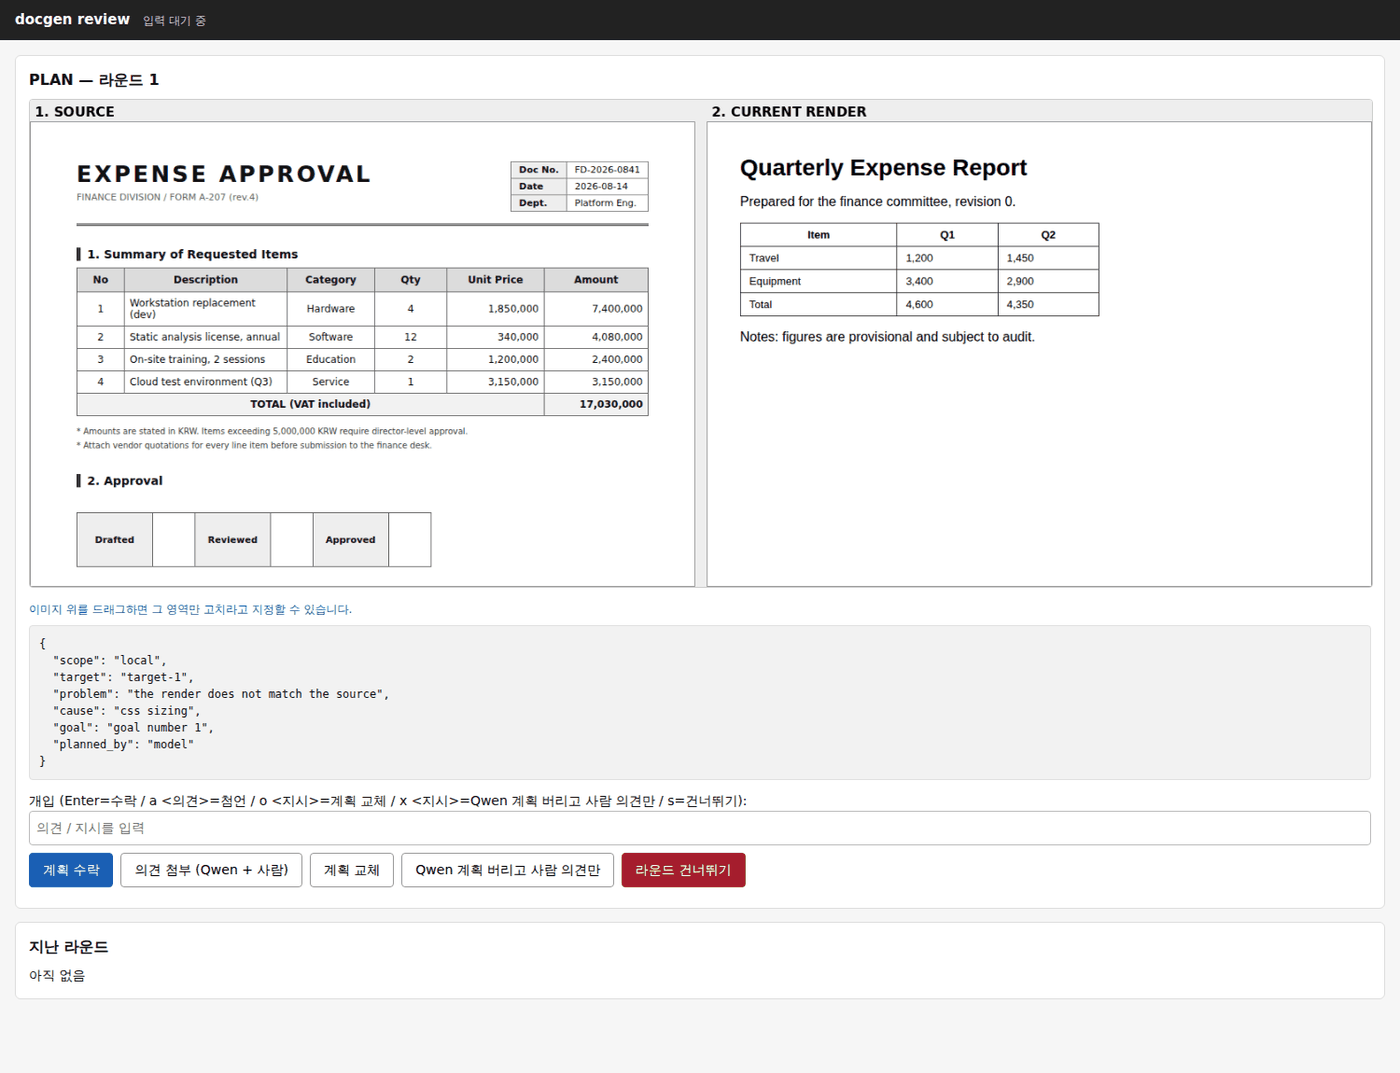
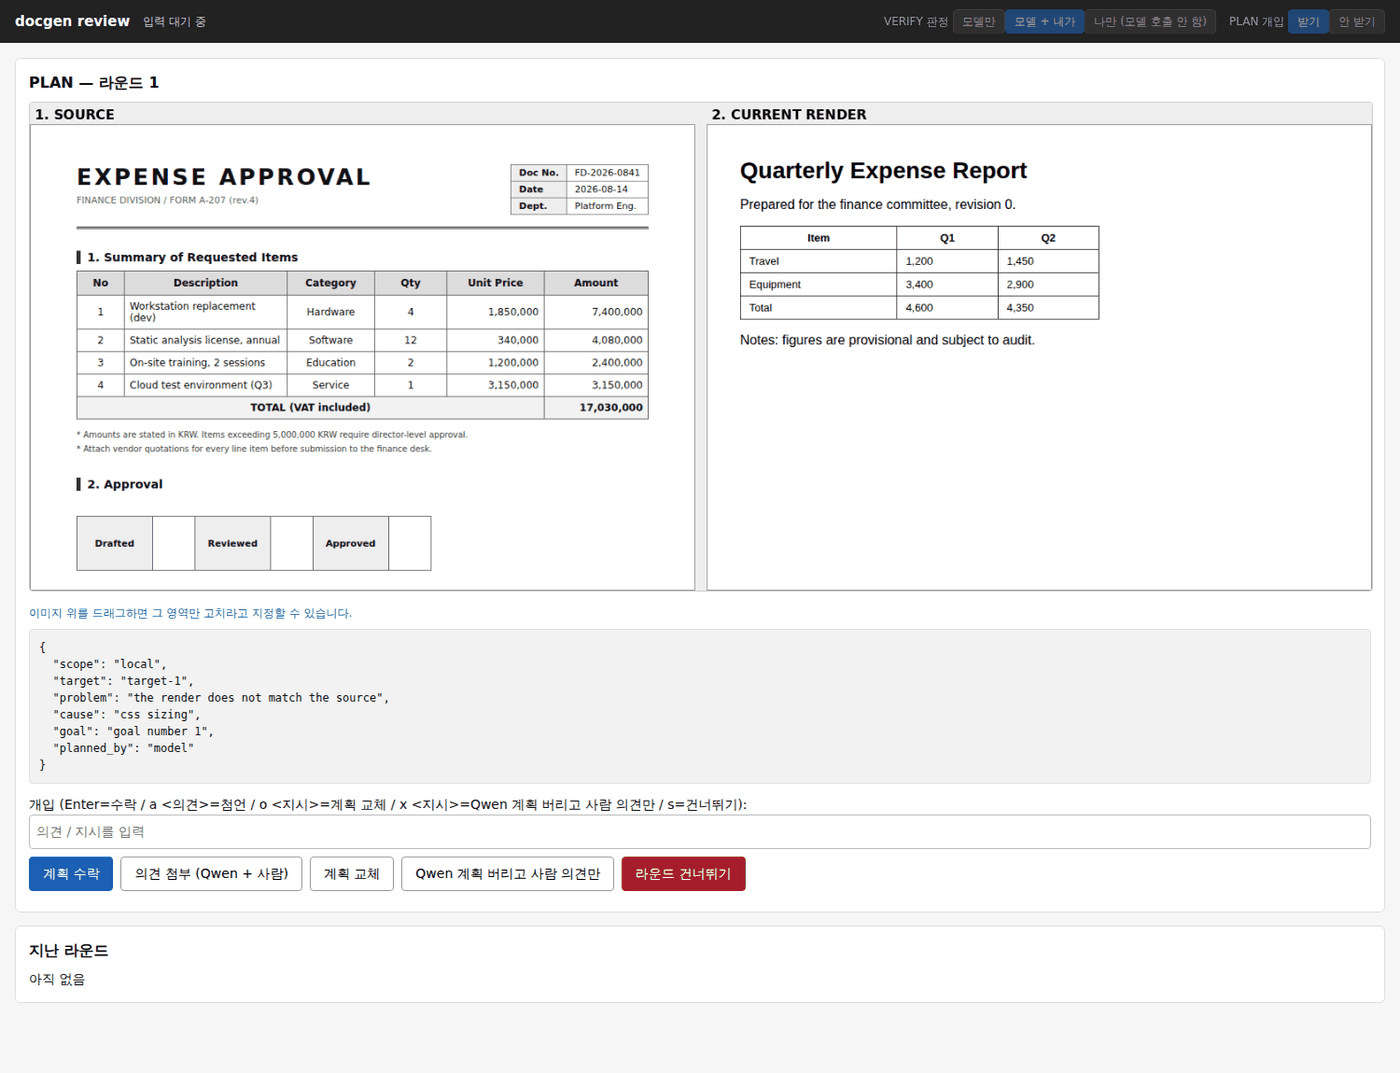
Make the intervention mode switchable from the UI, mid-run
Discarding the model's plan was already a PLAN button, but the docs gave it no
screenshot of its own, so it read like a CLI option. Skipping the Qwen VERIFY
call really was CLI-only: --verify was frozen at launch.

The header now carries two live controls - VERIFY 판정 (model / model+me / me
only) and PLAN 개입 (on / off) - served by GET and POST /config. Pipeline reads
both as properties per round instead of freezing them in the constructor, so a
change takes effect from the next PLAN or VERIFY. Turning both off drops into
fully automatic from that point; the browser becomes a progress window. The
properties fall back to the start values via getattr, so a terminal run with no
prompter behaves exactly as before. summary.json records verify_mode at start
and verify_mode_final at the end, so a run whose mode changed is identifiable
afterwards.

UI_docs is restructured around this: scenario C now points at the button that
does it, scenario E separates overriding a verdict (a button) from skipping the
model call (a mode), and a new scenario F covers switching mid-run. All eight
screenshots were recaptured against the current UI so the header controls are
visible throughout, and the set is regenerated from one real run rather than
assembled from different versions.

Claude-Session: https://claude.ai/code/session_01FGSBbvgH4rDB1TDj4rKnsM

diff --git a/ui.py b/ui.py
@@ -27,9 +27,15 @@ PAGE = """<!doctype html>
 <style>
  :root{color-scheme:light dark}
  body{margin:0;font:14px/1.5 system-ui,sans-serif;background:#f6f6f6;color:#111}
- header{background:#222;color:#fff;padding:10px 16px;display:flex;gap:14px;align-items:baseline}
+ header{background:#222;color:#fff;padding:10px 16px;display:flex;gap:14px;
+         align-items:center;flex-wrap:wrap}
  header b{font-size:15px}
  header span{opacity:.75;font-size:12px}
+ .ctl{margin-left:auto;display:flex;gap:14px;align-items:center;font-size:12px}
+ .ctl group{display:inline-flex;gap:4px}
+ .ctl b{font-size:12px;opacity:.7;font-weight:400;margin-right:4px}
+ .ctl button{font-size:12px;padding:3px 9px;background:#3a3a3a;color:#ddd;border-color:#555}
+ .ctl button.on{background:#1a5fb4;border-color:#1a5fb4;color:#fff}
  main{padding:16px;max-width:1600px}
  .card{background:#fff;border:1px solid #ddd;border-radius:6px;padding:14px;margin-bottom:14px}
  .stage{font-weight:700;font-size:16px;margin-bottom:8px}
@@ -60,7 +66,12 @@ PAGE = """<!doctype html>
    th{background:#262626}th,td{border-color:#333}
  }
 </style>
-<header><b>docgen review</b><span id="sub">connecting...</span></header>
+<header><b>docgen review</b><span id="sub">connecting...</span>
+  <div class="ctl">
+    <span><b>VERIFY 판정</b><span id="vm"></span></span>
+    <span><b>PLAN 개입</b><span id="pi"></span></span>
+  </div>
+</header>
 <main>
   <div class="card" id="panel"><div class="idle">대기 중...</div></div>
   <div class="card"><div class="stage">지난 라운드</div><div id="hist">아직 없음</div></div>
@@ -87,7 +98,38 @@ function send(value){
                    body: JSON.stringify({answer: v, region: sent})});
 }
 
+// --- 실행 중에 바꿀 수 있는 설정 -------------------------------------------
+const VERIFY_MODES = [
+  ['model', '모델만'], ['both', '모델 + 내가'], ['human', '나만 (모델 호출 안 함)'],
+];
+const PLAN_MODES = [[true, '받기'], [false, '안 받기']];
+
+function setConfig(patch){
+  fetch('config', {method:'POST', headers:{'Content-Type':'application/json'},
+                   body: JSON.stringify(patch)}).then(tick);
+}
+
+function renderControls(cfg){
+  const vm = document.getElementById('vm');
+  const pi = document.getElementById('pi');
+  const paint = (host, options, active, key) => {
+    if (host.dataset.active === String(active)) return;   // 깜빡임 방지
+    host.dataset.active = String(active);
+    host.innerHTML = '';
+    for (const [value, label] of options){
+      const b = document.createElement('button');
+      b.textContent = label;
+      if (value === active) b.className = 'on';
+      b.addEventListener('click', () => setConfig({[key]: value}));
+      host.appendChild(b);
+    }
+  };
+  paint(vm, VERIFY_MODES, cfg.verify_mode, 'verify_mode');
+  paint(pi, PLAN_MODES, cfg.plan_interactive, 'plan_interactive');
+}
+
 function render(st){
+  if (st.config) renderControls(st.config);
   document.getElementById('sub').textContent =
     st.finished ? '실행 종료' : (st.pending ? '입력 대기 중' : '모델이 작업 중...');
 
@@ -260,6 +302,8 @@ class _Handler(BaseHTTPRequestHandler):
             self._send(200, PAGE.encode("utf-8"), "text/html; charset=utf-8")
         elif route == "/state":
             self._send(200, json.dumps(self.review.state()).encode("utf-8"), "application/json")
+        elif route == "/config":
+            self._send(200, json.dumps(self.review.config()).encode("utf-8"), "application/json")
         elif route == "/favicon.ico":
             # Browsers always ask; a 404 in the console is just noise.
             self._send(204, b"", "image/x-icon")
@@ -274,7 +318,17 @@ class _Handler(BaseHTTPRequestHandler):
             self._send(404, b"not found", "text/plain")
 
     def do_POST(self):
-        if urllib.parse.urlparse(self.path).path.rstrip("/") != "/answer":
+        route = urllib.parse.urlparse(self.path).path.rstrip("/")
+        if route == "/config":
+            try:
+                patch = json.loads(self.rfile.read(int(self.headers.get("Content-Length", "0"))))
+            except (ValueError, UnicodeDecodeError):
+                self._send(400, b'{"ok":false}', "application/json")
+                return
+            self.review.set_config(patch)
+            self._send(200, json.dumps(self.review.config()).encode("utf-8"), "application/json")
+            return
+        if route != "/answer":
             self._send(404, b"not found", "text/plain")
             return
         try:
@@ -312,6 +366,11 @@ class ReviewServer:
         self._history: list[dict] = []
         self._counter = 0
         self.finished = False
+        # None means "follow whatever the CLI was started with". The pipeline
+        # reads these before each PLAN and VERIFY, so they take effect live.
+        self.verify_mode_override: str | None = None
+        self.plan_interactive_override: bool | None = None
+        self._defaults = {"verify_mode": "model", "plan_interactive": False}
 
     # ------------------------------------------------------------ lifecycle
 
@@ -340,7 +399,34 @@ class ReviewServer:
                 "pending": self._pending,
                 "history": self._history[-12:],
                 "finished": self.finished,
+                "config": self.config(),
             }
+
+    def announce_defaults(self, verify_mode: str, plan_interactive: bool) -> None:
+        """What the run was started with, so the UI can show the live setting."""
+        self._defaults = {"verify_mode": verify_mode, "plan_interactive": bool(plan_interactive)}
+
+    def config(self) -> dict:
+        return {
+            "verify_mode": self.verify_mode_override or self._defaults["verify_mode"],
+            "plan_interactive": (
+                self._defaults["plan_interactive"]
+                if self.plan_interactive_override is None
+                else self.plan_interactive_override
+            ),
+        }
+
+    def set_config(self, patch) -> None:
+        if not isinstance(patch, dict):
+            return
+        mode = patch.get("verify_mode")
+        if mode in ("model", "both", "human"):
+            self.verify_mode_override = mode
+            LOG.info("UI: VERIFY 판정 주체를 %s 로 바꿨습니다", mode)
+        if "plan_interactive" in patch:
+            self.plan_interactive_override = bool(patch["plan_interactive"])
+            LOG.info("UI: PLAN 개입을 %s 로 바꿨습니다",
+                     "받기" if self.plan_interactive_override else "안 받기")
 
     def read_image(self, rel: str) -> bytes | None:
         """Only files inside out_dir are readable, whatever the query says."""

diff --git a/pipeline.py b/pipeline.py
@@ -76,13 +76,14 @@ class Pipeline:
             raise ValueError(f"verify_mode must be model/human/both, got {verify_mode!r}")
         self.cfg = cfg
         self.notes = (notes or "").strip()
-        self.interactive = interactive
-        self.verify_mode = verify_mode
-        # Whether a person can actually intervene in this run. Gates the
-        # contract block so the default path's prompts stay unchanged.
-        self.operator_active = interactive or verify_mode != "model"
+        # What the run was started with. The UI may override these mid-run, so
+        # interactive / verify_mode are properties read once per round.
+        self._base_interactive = interactive
+        self._base_verify_mode = verify_mode
         # Anything with .ask(prompt, context) -> str. None means the terminal.
         self.prompter = prompter
+        if hasattr(prompter, "announce_defaults"):
+            prompter.announce_defaults(verify_mode, interactive)
         # Region the operator marked alongside their last answer, if any.
         self._last_region: dict | None = None
         self.interventions = 0
@@ -172,6 +173,25 @@ class Pipeline:
         return plan
 
     # ---------------------------------------------------------------- action
+
+    @property
+    def interactive(self) -> bool:
+        override = getattr(self.prompter, "plan_interactive_override", None)
+        return self._base_interactive if override is None else bool(override)
+
+    @property
+    def verify_mode(self) -> str:
+        return getattr(self.prompter, "verify_mode_override", None) or self._base_verify_mode
+
+    @property
+    def operator_active(self) -> bool:
+        """Gates the contract block: can a person intervene in this run at all?"""
+        return (
+            self._base_interactive
+            or self._base_verify_mode != "model"
+            or self.interactive
+            or self.verify_mode != "model"
+        )
 
     @staticmethod
     def action_mode(plan: dict) -> str:
@@ -738,7 +758,8 @@ class Pipeline:
             "operator_notes": self.notes,
             "operator_interventions": self.interventions,
             "operator_rounds": sum(1 for r in results if r.operator),
-            "verify_mode": self.verify_mode,
+            "verify_mode": self._base_verify_mode,
+            "verify_mode_final": self.verify_mode,
             "thinking_control": self.llm.supports_thinking_flag,
             "rounds": [
                 {

diff --git a/tests/test_offline.py b/tests/test_offline.py
@@ -428,8 +428,7 @@ def test_operator(llm_base: str, renderer_url: str) -> None:
     ok("blank notes add nothing to the prompts")
 
     # --- interactive PLAN: replace the goal vs attach a note
-    pipe.interactive = True
-    pipe.operator_active = True
+    pipe._base_interactive = True
     pipe._ask = lambda *_a, **_k: "o 제목 크기부터 맞춰라"
     plan = pipe.review_plan({"scope": "local", "goal": "g"})
     assert plan["operator_instruction"] == "제목 크기부터 맞춰라", plan
@@ -769,6 +768,38 @@ def test_operator_only_and_region_loop(llm_base: str, renderer_url: str) -> None
 
     assert "planned_by" in prompts.operator_contract_block(True)
     ok("ACTION is told a plan may be the operator's alone")
+
+    # --- the UI can change the intervention mode mid-run
+    from ui import ReviewServer as RS
+
+    srv = RS(ROOT / "out", port=0)
+    live = Pipeline(cfg, ROOT / "out" / "x_probe", interactive=True,
+                    verify_mode="both", prompter=srv)
+    assert srv.config() == {"verify_mode": "both", "plan_interactive": True}, srv.config()
+    assert (live.interactive, live.verify_mode) == (True, "both")
+
+    srv.set_config({"verify_mode": "human"})
+    assert live.verify_mode == "human", live.verify_mode
+    srv.set_config({"plan_interactive": False})
+    assert live.interactive is False
+    ok("a mode change in the UI reaches the next round of the running pipeline")
+
+    srv.set_config({"verify_mode": "model"})
+    assert (live.interactive, live.verify_mode) == (False, "model")
+    # The contract stays: the run began with a human in it.
+    assert live.operator_active is True
+    ok("switching everything off goes fully automatic without dropping the contract")
+
+    srv.set_config({"verify_mode": "nope"})
+    assert live.verify_mode == "model", "an unknown mode must be ignored"
+    srv.set_config("not a dict")
+    assert live.verify_mode == "model"
+    ok("invalid config payloads are ignored")
+
+    # No prompter at all: the CLI values stand and nothing raises.
+    plain = Pipeline(cfg, ROOT / "out" / "x_probe", interactive=True, verify_mode="both")
+    assert (plain.interactive, plain.verify_mode) == (True, "both")
+    ok("with no prompter the pipeline just follows its start values")
 
     # --- the UI can bind somewhere another machine can reach
     ip = lan_ip()

diff --git a/UI_docs/README.md b/UI_docs/README.md
@@ -20,7 +20,8 @@
 * [시나리오 C — Qwen 계획 버리고 사람 지시대로](#시나리오-c--qwen-계획-버리고-사람-지시대로)
 * [시나리오 D — 특정 영역만 고치기](#시나리오-d--특정-영역만-고치기)
 * [시나리오 E — VERIFY를 사람이 직접](#시나리오-e--verify를-사람이-직접)
-* [시나리오 F — 다른 PC에서 접속](#시나리오-f--다른-pc에서-접속)
+* [시나리오 F — 실행 중에 개입 방식 바꾸기](#시나리오-f--실행-중에-개입-방식-바꾸기)
+* [시나리오 G — 다른 PC에서 접속](#시나리오-g--다른-pc에서-접속)
 * [버튼 정리](#버튼-정리)
 * [기록되는 것](#기록되는-것)
 * [알아둘 제약](#알아둘-제약)
@@ -86,7 +87,12 @@ PLAN 실행(모델) → [화면 ①] → ACTION → APPLY → RENDER → VERIFY 
 * VERIFY에서도 같은 방식으로 판정은 그대로 두고 의견만 붙일 수 있다. 그
   의견은 **다음 라운드 PLAN의 history로 실려 간다.**
 
-![지난 라운드 기록](images/04-history.png)
+![개입 버튼](images/02-plan-intervene.png)
+
+입력창에 적고 **`의견 첨부 (Qwen + 사람)`** 를 누른다. 위 화면의 버튼 5개가
+PLAN에서 할 수 있는 전부다 — 시나리오 C도 이 화면의 네 번째 버튼이다.
+
+![지난 라운드 기록](images/08-history.png)
 
 아래 카드에 무엇을 보냈는지 쌓인다. 영역까지 지정한 답에는 `[영역 지정]` 이
 붙는다.
@@ -95,8 +101,10 @@ PLAN 실행(모델) → [화면 ①] → ACTION → APPLY → RENDER → VERIFY 
 
 ## 시나리오 C — Qwen 계획 버리고 사람 지시대로
 
-모델이 엉뚱한 걸 집었을 때. 지시를 적고 **`Qwen 계획 버리고 사람 의견만`** 을
-누른다.
+모델이 엉뚱한 걸 집었을 때. **CLI 옵션이 아니라 PLAN 화면의 버튼이다.**
+([시나리오 B 화면](images/02-plan-intervene.png)의 네 번째 버튼)
+
+지시를 적고 **`Qwen 계획 버리고 사람 의견만`** 을 누른다.
 
 * 모델 계획을 **버린다.** ACTION은 사람 지시만 목표로 본다.
 * 원래 계획은 `plan.json` 의 `model_plan` 에 기록만 남는다. 프롬프트에
@@ -112,7 +120,7 @@ PLAN 실행(모델) → [화면 ①] → ACTION → APPLY → RENDER → VERIFY 
 
 "이 표만 원본에 맞춰라" 처럼 한 부분을 지목할 때. **이미지 위를 드래그**한다.
 
-![영역 지정](images/02-plan-region-select.png)
+![영역 지정](images/03-plan-region-select.png)
 
 드래그하면 아래에 선택 결과가 뜬다.
 
@@ -130,7 +138,7 @@ PLAN 실행(모델) → [화면 ①] → ACTION → APPLY → RENDER → VERIFY 
    말라"가 들어간다.
 4. VERIFY 화면에 **지정한 영역 확대 비교**가 추가로 뜬다.
 
-![VERIFY + 영역 확대](images/03-verify-with-region.png)
+![VERIFY + 영역 확대](images/04-verify-with-region.png)
 
 위가 전체 페이지(원본 · 수정 전 · 수정 후), 아래가 **지정한 영역만 확대**한
 것이다. 전체만 보면 작은 영역이 고쳐졌는지 알 수 없어서 두 장을 같이 준다.
@@ -145,17 +153,25 @@ PLAN 실행(모델) → [화면 ①] → ACTION → APPLY → RENDER → VERIFY 
 
 ## 시나리오 E — VERIFY를 사람이 직접
 
-모델 판정을 아예 믿지 않을 때. Qwen을 호출하지 않는다.
+판정을 사람이 하는 방법은 두 가지다.
+
+**① 모델 판정을 보고 뒤집기** — 그냥 UI 버튼이다. VERIFY 화면의
+`keep / revert / done 으로 교체`. 모델 판정을 화면에서 먼저 읽고 바꾼다.
+모델의 원래 판정은 `model_decision` 에 남는다.
+
+**② Qwen에게 아예 묻지 않기** — 모델 호출 자체를 건너뛴다. 실행할 때 지정해도
+되고, [시나리오 F](#시나리오-f--실행-중에-개입-방식-바꾸기) 처럼 **실행 중에
+화면에서 바꿔도 된다.**
 
 ```bash
 python run.py build sample.png --ui --verify human
 ```
 
-![사람 판정](images/05-verify-human-decision.png)
+![사람 판정](images/06-verify-human-decision.png)
 
 판정 버튼만 있고 입력창이 없다. 고르면 이유와 다음 이슈를 차례로 묻는다.
 
-![이유 입력](images/06-verify-human-reason.png)
+![이유 입력](images/07-verify-human-reason.png)
 
 "다음에 고칠 것"에 적은 내용은 **다음 라운드 PLAN의 history로 들어간다.** 판정을
 바꾸는 데서 끝나지 않고 다음 방향을 잡는다.
@@ -165,7 +181,30 @@ VERIFY 모델 호출(이미지 3장 + thinking ON)이 사라지므로 가장 비
 
 ---
 
-## 시나리오 F — 다른 PC에서 접속
+## 시나리오 F — 실행 중에 개입 방식 바꾸기
+
+처음에는 지켜보다가 "이제 내가 판정하겠다"로 바꾸거나, 반대로 "나머지는 알아서
+돌려라"로 빠질 때. **다시 실행할 필요 없이 화면 오른쪽 위에서 바꾼다.**
+
+![실행 중 전환](images/05-switch-verify-mode.png)
+
+| 컨트롤 | 선택지 | 뜻 |
+| --- | --- | --- |
+| VERIFY 판정 | 모델만 | 사람에게 묻지 않고 모델 판정대로 진행 |
+| | 모델 + 내가 | 모델이 판정하고 사람이 보고 뒤집을 수 있음 |
+| | 나만 (모델 호출 안 함) | Qwen VERIFY 호출을 건너뛰고 사람만 판정 |
+| PLAN 개입 | 받기 / 안 받기 | PLAN에서 멈출지 |
+
+바꾸면 **다음 PLAN·VERIFY부터** 적용된다. 진행 중인 질문에는 영향이 없다.
+현재 어떤 설정인지는 파란색으로 표시된다.
+
+둘 다 끄면(`모델만` + `안 받기`) 그 시점부터 완전 자동으로 돈다. 브라우저는
+그냥 진행 상황을 보는 창이 된다.
+
+`summary.json` 에는 시작할 때의 설정(`verify_mode`)과 끝날 때의 설정
+(`verify_mode_final`)이 모두 남는다.
+
+## 시나리오 G — 다른 PC에서 접속
 
 파이프라인은 GPU 서버에서 돌고, 화면은 윈도우에서 볼 때.
 
@@ -197,6 +236,9 @@ python run.py build sample.png --ui --ui-host 0.0.0.0 --ui-port 8900
 | Qwen 계획 버리고 사람 의견만 | 계획을 버림 | `planned_by: operator`, `model_plan` |
 | 라운드 건너뛰기 | 이 라운드를 통째로 넘김 | `decision: skipped` |
 
+헤더의 컨트롤은 언제든 눌러 개입 방식 자체를 바꾼다
+([시나리오 F](#시나리오-f--실행-중에-개입-방식-바꾸기)).
+
 ### VERIFY 화면 (모델이 판정한 경우)
 
 | 버튼 | 결과 | 남는 것 |
@@ -226,7 +268,7 @@ python run.py build sample.png --ui --ui-host 0.0.0.0 --ui-port 8900
 | --- | --- |
 | `rounds/rNN/plan.json` | `planned_by`, `operator_note`, `operator_instruction`, `operator_region`, `model_plan` |
 | `rounds/rNN/verify.json` | `verified_by`, `model_decision`, `operator_override`, `operator_note` |
-| `summary.json` | `verify_mode`, `operator_interventions`, `operator_rounds`, `skipped`, 라운드별 `operator` |
+| `summary.json` | `verify_mode`(시작 설정), `verify_mode_final`(종료 시점 설정), `operator_interventions`, `operator_rounds`, `skipped`, 라운드별 `operator` |
 
 모델 단독 성능을 보려면 `--ui` 없이 돌린 실행을 보고, 개입이 섞인 실행에서는
 `operator: true` 라운드를 빼고 읽는다.
@@ -258,6 +300,8 @@ python run.py build sample.png --ui --ui-host 0.0.0.0 --ui-port 8900
 * **터치는 안 된다.** 드래그가 마우스 이벤트 기반이라 모바일에서는 영역 지정이
   동작하지 않는다.
 * **실행 시작·중단은 CLI에서** 한다. UI에는 시작 버튼도 정지 버튼도 없다.
+  개입 방식(판정 주체, PLAN 개입 여부)은 실행 중에 바꿀 수 있지만, 라운드 수나
+  대상 문서 같은 것은 바꿀 수 없다.
 * **인증이 없다.** `--ui-host` 로 열 때는 사내망 안이라는 전제가 필요하다.
 * 답이 `--ui-timeout`(기본 1800초) 안에 오지 않으면 입력 없음으로 처리한다.
   사람이 단독 판정하는 모드였다면 `revert` 가 된다 — 판정되지 않은 수정을
